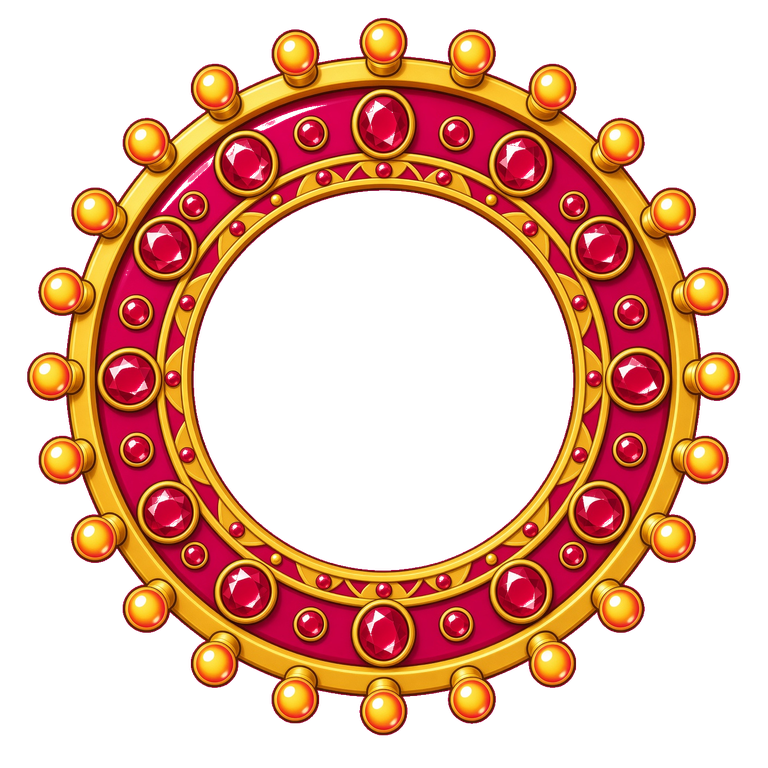
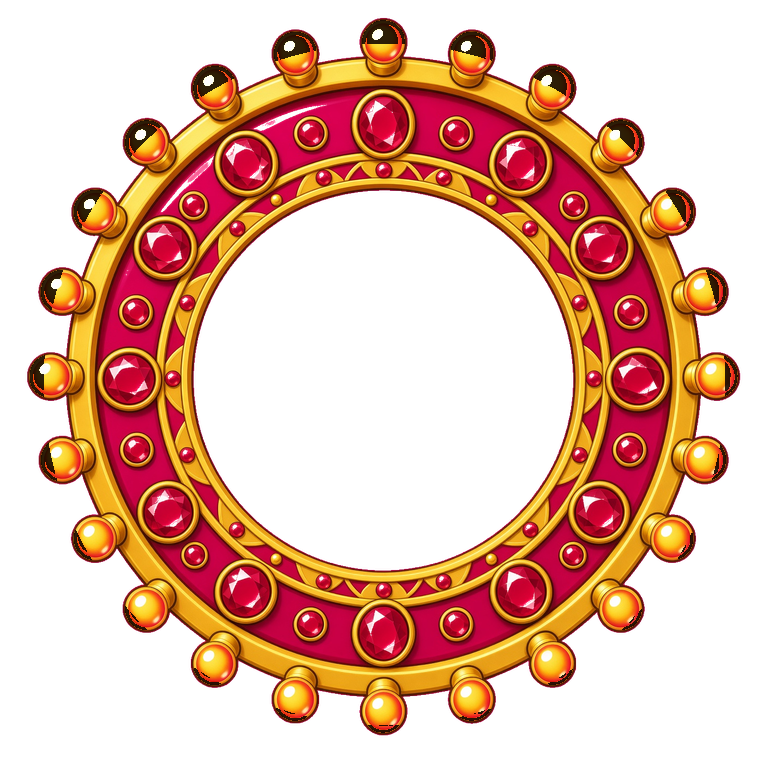
Blink the painted gold rim bulbs; drop the extra dots

diff --git a/src/components/wheel-page.tsx b/src/components/wheel-page.tsx
@@ -9,7 +9,6 @@ import { useGame } from "@/game/store";
 
 const N = WHEEL_SLICES.length;
 const SLICE = 360 / N;
-const BULBS = 20;
 const FILLS = ["#f4c44a", "#e4453a", "#3ec8d4", "#ef7a32", "#e8b84a", "#2fba6e", "#3d7fd6", "#f0b429"];
 
 export function WheelPage({ onClose }: { onClose: () => void }) {
@@ -127,27 +126,17 @@ export function WheelPage({ onClose }: { onClose: () => void }) {
           <circle cx="100" cy="100" r="18" fill="url(#hubGem)" stroke="#5a2010" strokeWidth="2" />
         </svg>
         <img
-          src="/wheel/rim.png"
+          src="/wheel/rim.png?v=2"
           alt=""
           className="pointer-events-none absolute inset-0 z-10 size-full object-contain"
           crossOrigin="anonymous"
         />
-        <div className="pointer-events-none absolute inset-0 z-[11]" aria-hidden>
-          {Array.from({ length: BULBS }, (_, i) => {
-            const rad = ((i / BULBS) * 360 - 90) * (Math.PI / 180);
-            return (
-              <span
-                key={i}
-                className="wheel-bulb"
-                style={{
-                  left: `${50 + Math.cos(rad) * 46.6}%`,
-                  top: `${50 + Math.sin(rad) * 46.6}%`,
-                  animationDelay: `${(i * 0.08).toFixed(2)}s`,
-                }}
-              />
-            );
-          })}
-        </div>
+        <img
+          src="/wheel/rim-lights.png?v=1"
+          alt=""
+          className="wheel-lights pointer-events-none absolute inset-0 z-[11] size-full object-contain"
+          crossOrigin="anonymous"
+        />
         <div className="pointer-events-none absolute top-[7%] left-1/2 z-20 -translate-x-1/2 drop-shadow">
           <svg width="36" height="40" viewBox="0 0 36 40" aria-hidden>
             <polygon points="18,40 2,4 34,4" fill="#7a1810" />

diff --git a/src/styles.css b/src/styles.css
@@ -102,32 +102,22 @@ canvas {
   animation: bench-flash 0.7s ease-in-out;
 }
 
-@keyframes wheel-bulb {
+@keyframes wheel-lights {
   0%,
   100% {
     opacity: 1;
-    filter: brightness(1.45);
   }
   50% {
-    opacity: 0.2;
-    filter: brightness(0.4);
+    opacity: 0.05;
   }
 }
 
-.wheel-bulb {
-  position: absolute;
-  width: 7.4%;
-  height: 7.4%;
-  margin-left: -3.7%;
-  margin-top: -3.7%;
-  border-radius: 999px;
-  background: radial-gradient(circle at 35% 30%, #fff6ee, var(--color-gold) 42%, #c48a14 78%);
-  box-shadow: 0 0 10px color-mix(in oklab, var(--color-gold) 80%, transparent);
-  animation: wheel-bulb 0.95s ease-in-out infinite;
+.wheel-lights {
+  animation: wheel-lights 0.85s ease-in-out infinite;
 }
 
-.wheel-spinning .wheel-bulb {
-  animation-duration: 0.32s;
+.wheel-spinning .wheel-lights {
+  animation-duration: 0.28s;
 }
 
 @media (prefers-reduced-motion: reduce) {
